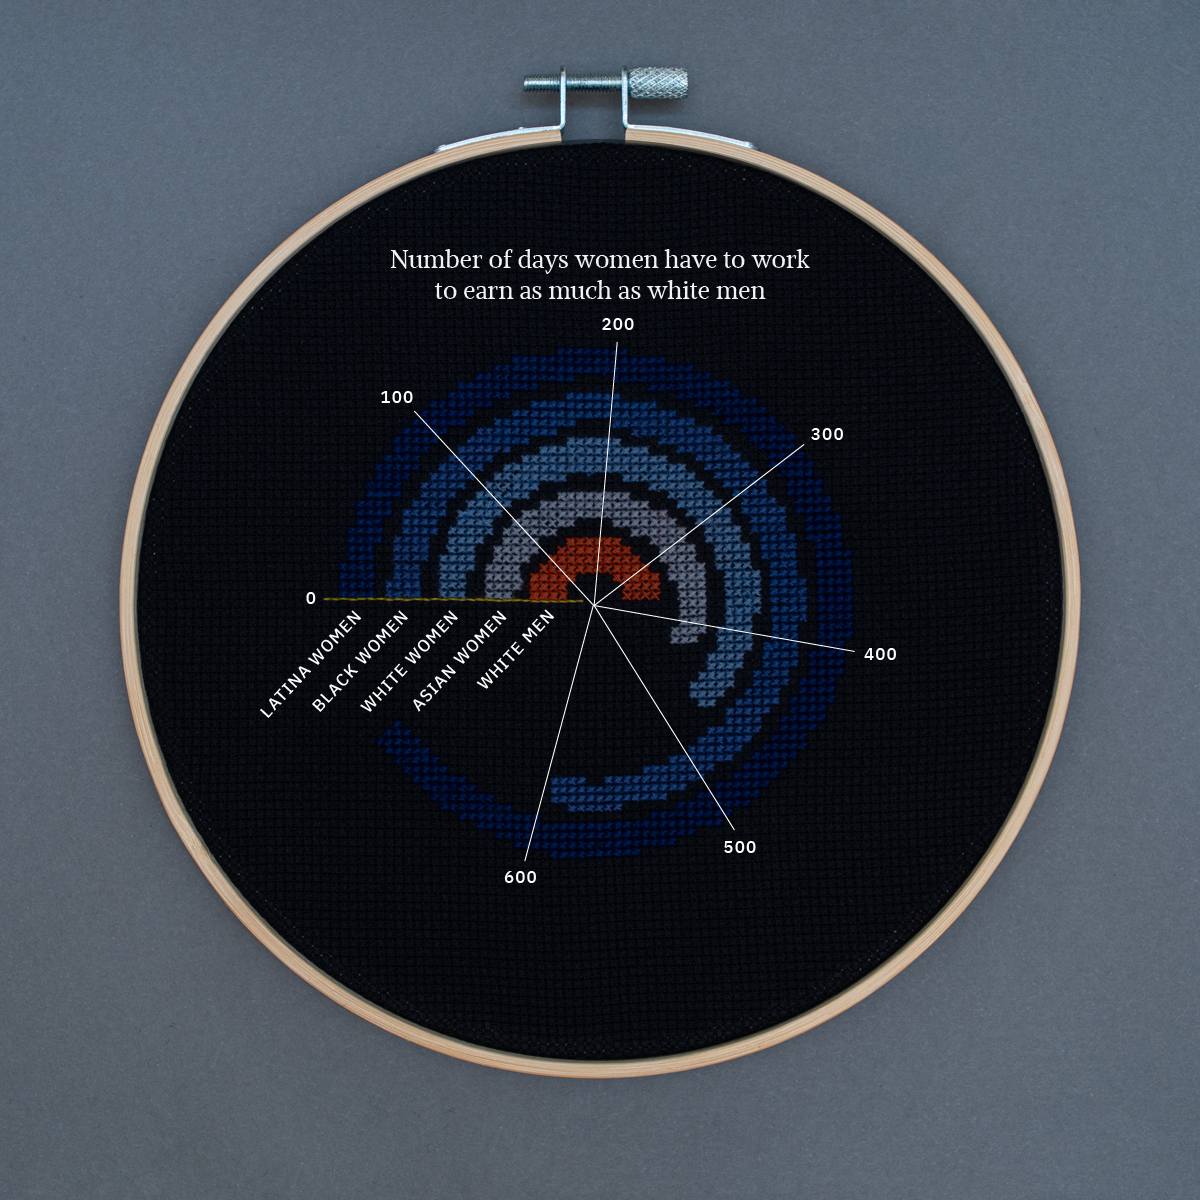
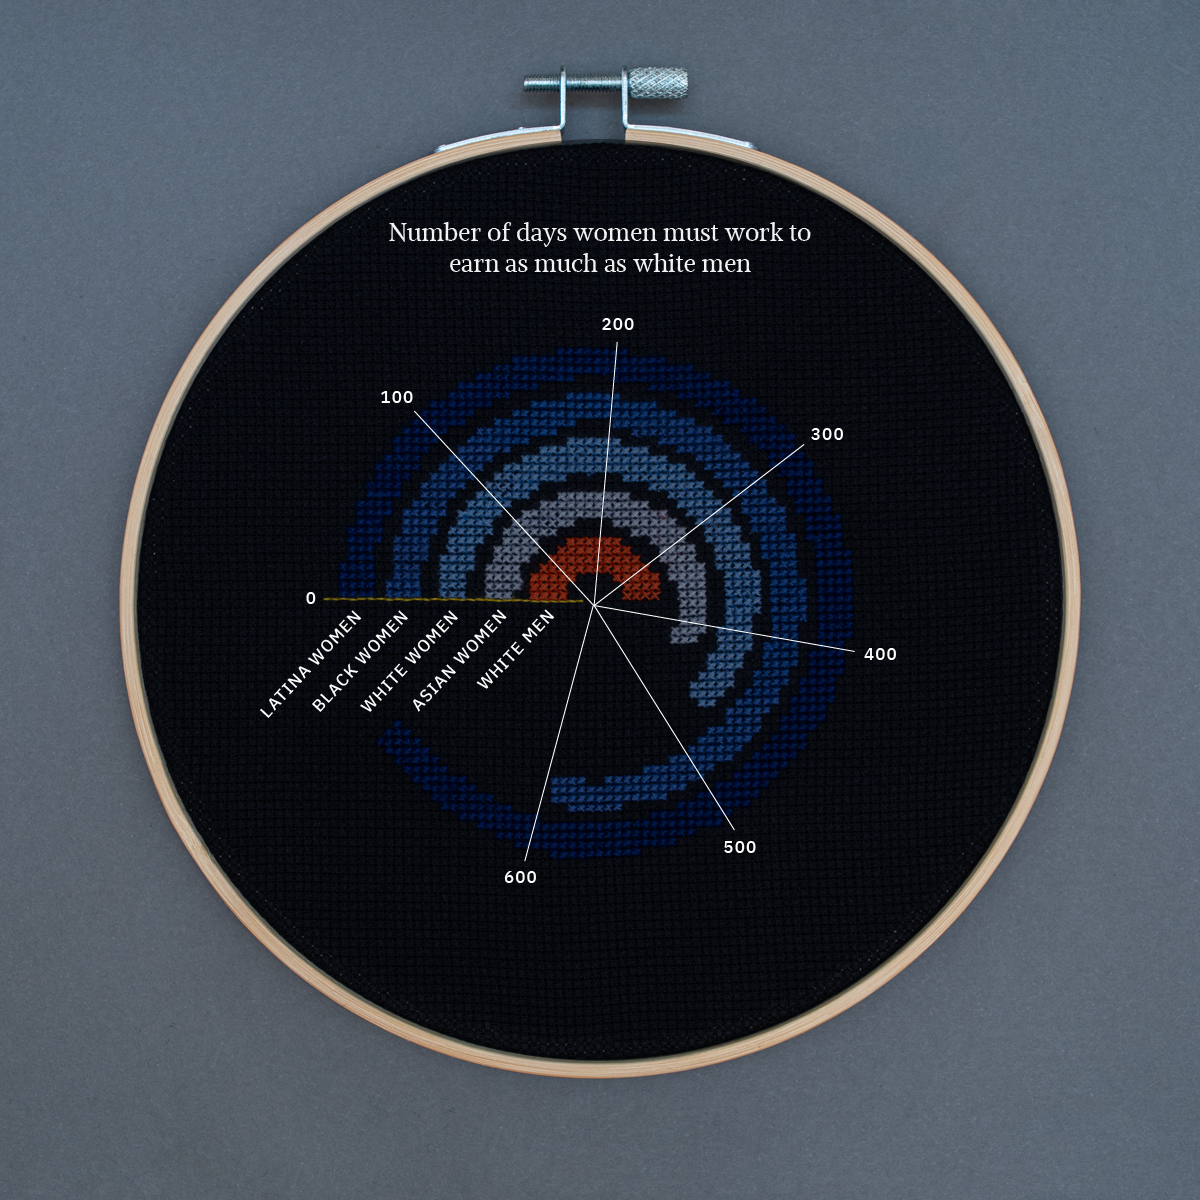
Updated chart copy

Changed region(s): [[0.3083, 0.185, 0.6783, 0.2467]]

diff --git a/index.html b/index.html
@@ -91,7 +91,7 @@
 					</div>
 					<div class="col span_4_of_12">
 						<div class="chart-copy">
-							<h2>Fully employed women have more unpaid work and less leisure time than men.</h2>
+							<h2>Women employed full-time do more unpaid work and have less leisure time than men.</h2>
 							<h3 class="top-padding-small">Source: <a href="https://www.bls.gov/charts/american-time-use/activity-by-sex.htm#" target="#">US Bureau of Labor Statistics</a></h3>
 						</div>
 					</div>
@@ -110,7 +110,7 @@
 					</div>
 					<div class="col span_4_of_12">
 						<div class="chart-copy">
-							<h2>Having children greatly harms women’s earnings impact.</h2>
+							<h2>Having children negatively impacts wages and earnings for women.</h2>
 							<h3 class="top-padding-small">Source: <a href="https://www.henrikkleven.com/uploads/3/7/3/1/37310663/kleven-landais-sogaard_nber-w24219_jan2018.pdf" target="#">NATIONAL BUREAU OF ECONOMIC RESEARCH</a></h3>
 						</div>
 					</div>
@@ -136,7 +136,7 @@
 					</div>
 					<div class="col span_4_of_12">
 						<div class="chart-copy">
-							<h2>Queer women and women in leadship positions are likely to face sexual harassment at work.</h2>
+							<h2>LGBTQ women and women in leadership positions are likely to face sexual harassment at work.</h2>
 							<h3 class="top-padding-small">Source: <a href="https://wiw-report.s3.amazonaws.com/Women_in_the_Workplace_2019.pdf" target="#">Women in the Workplace</a></h3>
 						</div>
 					</div>
@@ -155,7 +155,7 @@
 					</div>
 					<div class="col span_4_of_12">
 						<div class="chart-copy">
-							<h2>Women face the highest pay gaps compared to men in Alabama, Louisiana, North Dakota, West Virginia and Wyoming.</h2>
+							<h2>Women face the largest gender pay gaps in Alabama, Louisiana, North Dakota, West Virginia and Wyoming.</h2>
 							<h3 class="top-padding-small">Source: <a href="https://en.wikipedia.org/wiki/Gender_pay_gap_in_the_United_States#/media/File:US_gender_pay_gap_by_state.svg" target="#">U.S. Census Bureau</a></h3>
 						</div>
 					</div>
@@ -181,7 +181,7 @@
 					</div>
 					<div class="col span_4_of_12">
 						<div class="chart-copy">
-							<h2>Only 72 women on average, 68 Latina women and 58 black women get promoted for every 100 men. </h2>
+							<h2>Women are far less likely to be promoted than men, particularly Black and Latina women.</h2>
 							<h3 class="top-padding-small">Source: <a href="https://www.mckinsey.com/featured-insights/gender-equality/women-in-the-workplace-2019#" target="#">Women in the Workplace</a></h3>
 						</div>
 					</div>
@@ -225,7 +225,7 @@
 					</div>
 					<div class="col span_4_of_12">
 						<div class="chart-copy">
-							<h2>Women have low leadership representation in top companies.</h2>
+							<h2>Women are markedly absent from leadership and high-level roles at top companies.</h2>
 							<h3 class="top-padding-small">Source: <a href="https://www.catalyst.org/research/women-in-sp-500-companies/" target="#">Catalyst</a></h3>
 						</div>
 					</div>
@@ -269,7 +269,7 @@
 					</div>
 					<div class="col span_4_of_12">
 						<div class="chart-copy">
-							<h2>On average, women make 68% of what white men make. Black women make 64% and Latina women make 54% of what white men make.</h2>
+							<h2>Women on average make just 68% of what white men make, while Black women make 64% and Latina women make 54%.</h2>
 							<h3 class="top-padding-small">Source: <a href="https://www.infoplease.com/us/wage-gap/wage-gap-gender-and-race" target="#">Infoplease</a></h3>
 						</div>
 					</div>
@@ -289,7 +289,7 @@
 
 					<div class="col span_4_of_12">
 						<div class="chart-copy">
-							<h2>The rate of women in the workforce peaked in 2000 at 60% and has been on a steady decline since.</h2>
+							<h2>The rate of women in the workforce peaked in 2000 at 60%—and has been in steady decline ever since.</h2>
 							<h3 class="top-padding-small">Source: <a href="https://www.bls.gov/spotlight/2017/women-in-the-workforce-before-during-and-after-the-great-recession/pdf/women-in-the-workforce-before-during-and-after-the-great-recession.pdf" target="#">U.S. BUREAU OF LABOR STATISTICS</a></h3>
 						</div>
 					</div>
@@ -314,7 +314,7 @@
 					</div>
 					<div class="col span_4_of_12">
 						<div class="chart-copy">
-							<h2>Women with bachelor’s degrees have outnumbered men since 1994. Women with graduate school experience have outnumbered men since 2004.</h2>
+							<h2>Women with bachelor’s degrees have outnumbered men since 1994, while women with graduate school experience have outnumbered men since 2004.</h2>
 							<h3 class="top-padding-small">Source: <a href="https://www.usnews.com/news/blogs/data-mine/2014/10/31/women-more-likely-to-graduate-college-but-still-earn-less-than-men" target="#">White House Council of Economic Advisers</a></h3>
 						</div>
 					</div>
@@ -333,7 +333,7 @@
 					</div>
 					<div class="col span_4_of_12">
 						<div class="chart-copy">
-							<h2>To make the same as white men in one year, asian women need to work 407 days, white women need to work 465 days, black women need to work 591 days and latina women need to work 672 days.</h2>
+							<h2>To make the same amount that white men earn in one year (365 days), Asian women need to work 407 days, while women need to work 465 days, Black women need to work 591 days, and Latina women need to work 672 days. </h2>
 							<h3 class="top-padding-small">Source: <a href="https://www.businessinsider.com/equal-pay-day-gender-pay-gap-calendar-2019-8" target="#">Business Insider</a></h3>
 						</div>
 					</div>
@@ -353,7 +353,7 @@
 				</div>
 				<div class="col span_7_of_12">
 					<!-- <h2 style="color:#414141">All pieces in this series are for sale and 100% of proceeds will go to AAPF’s <a href="https://aapf.org/sayhername" target="#" style="text-decoration: underline; color:#414141">#SayHerName</a> Campaign. Please reach out to <a href="mailto:olivia@o-j.co" style="text-decoration: underline; color:#414141">olivia@o-j.co</a> for any questions and inquiries.</h2> -->
-					<p style="color:#414141">Women’s Work was created by <a href="http://o-j.co"  target="#" style="color:#414141">Olivia Johnson</a> as a reaction to the discrimination that women, notably women of color, continue to face in the workforce. The medium of cross stitch, a form of art that tends to be labeled as kitsch and women’s hobby craft, was intentionally utilized to emphasize the fact that women’s labor is routinely dismissed and undervalued.</p>
+					<p style="color:#414141">Women’s Work was created by <a href="http://o-j.co"  target="#" style="color:#414141">Olivia Johnson</a> as a reaction to the discrimination that women, notably women of color, continue to face in the workforce. The medium of cross stitch, a form of art that tends to be labeled as kitsch and a women’s hobby craft, was intentionally utilized to emphasize the fact that women’s labor is routinely dismissed and undervalued.</p>
 					<h3 class="top-padding-small" style="color:#414141">© Olivia Johnson 2020</h3>
 				</div>
 			</div>
